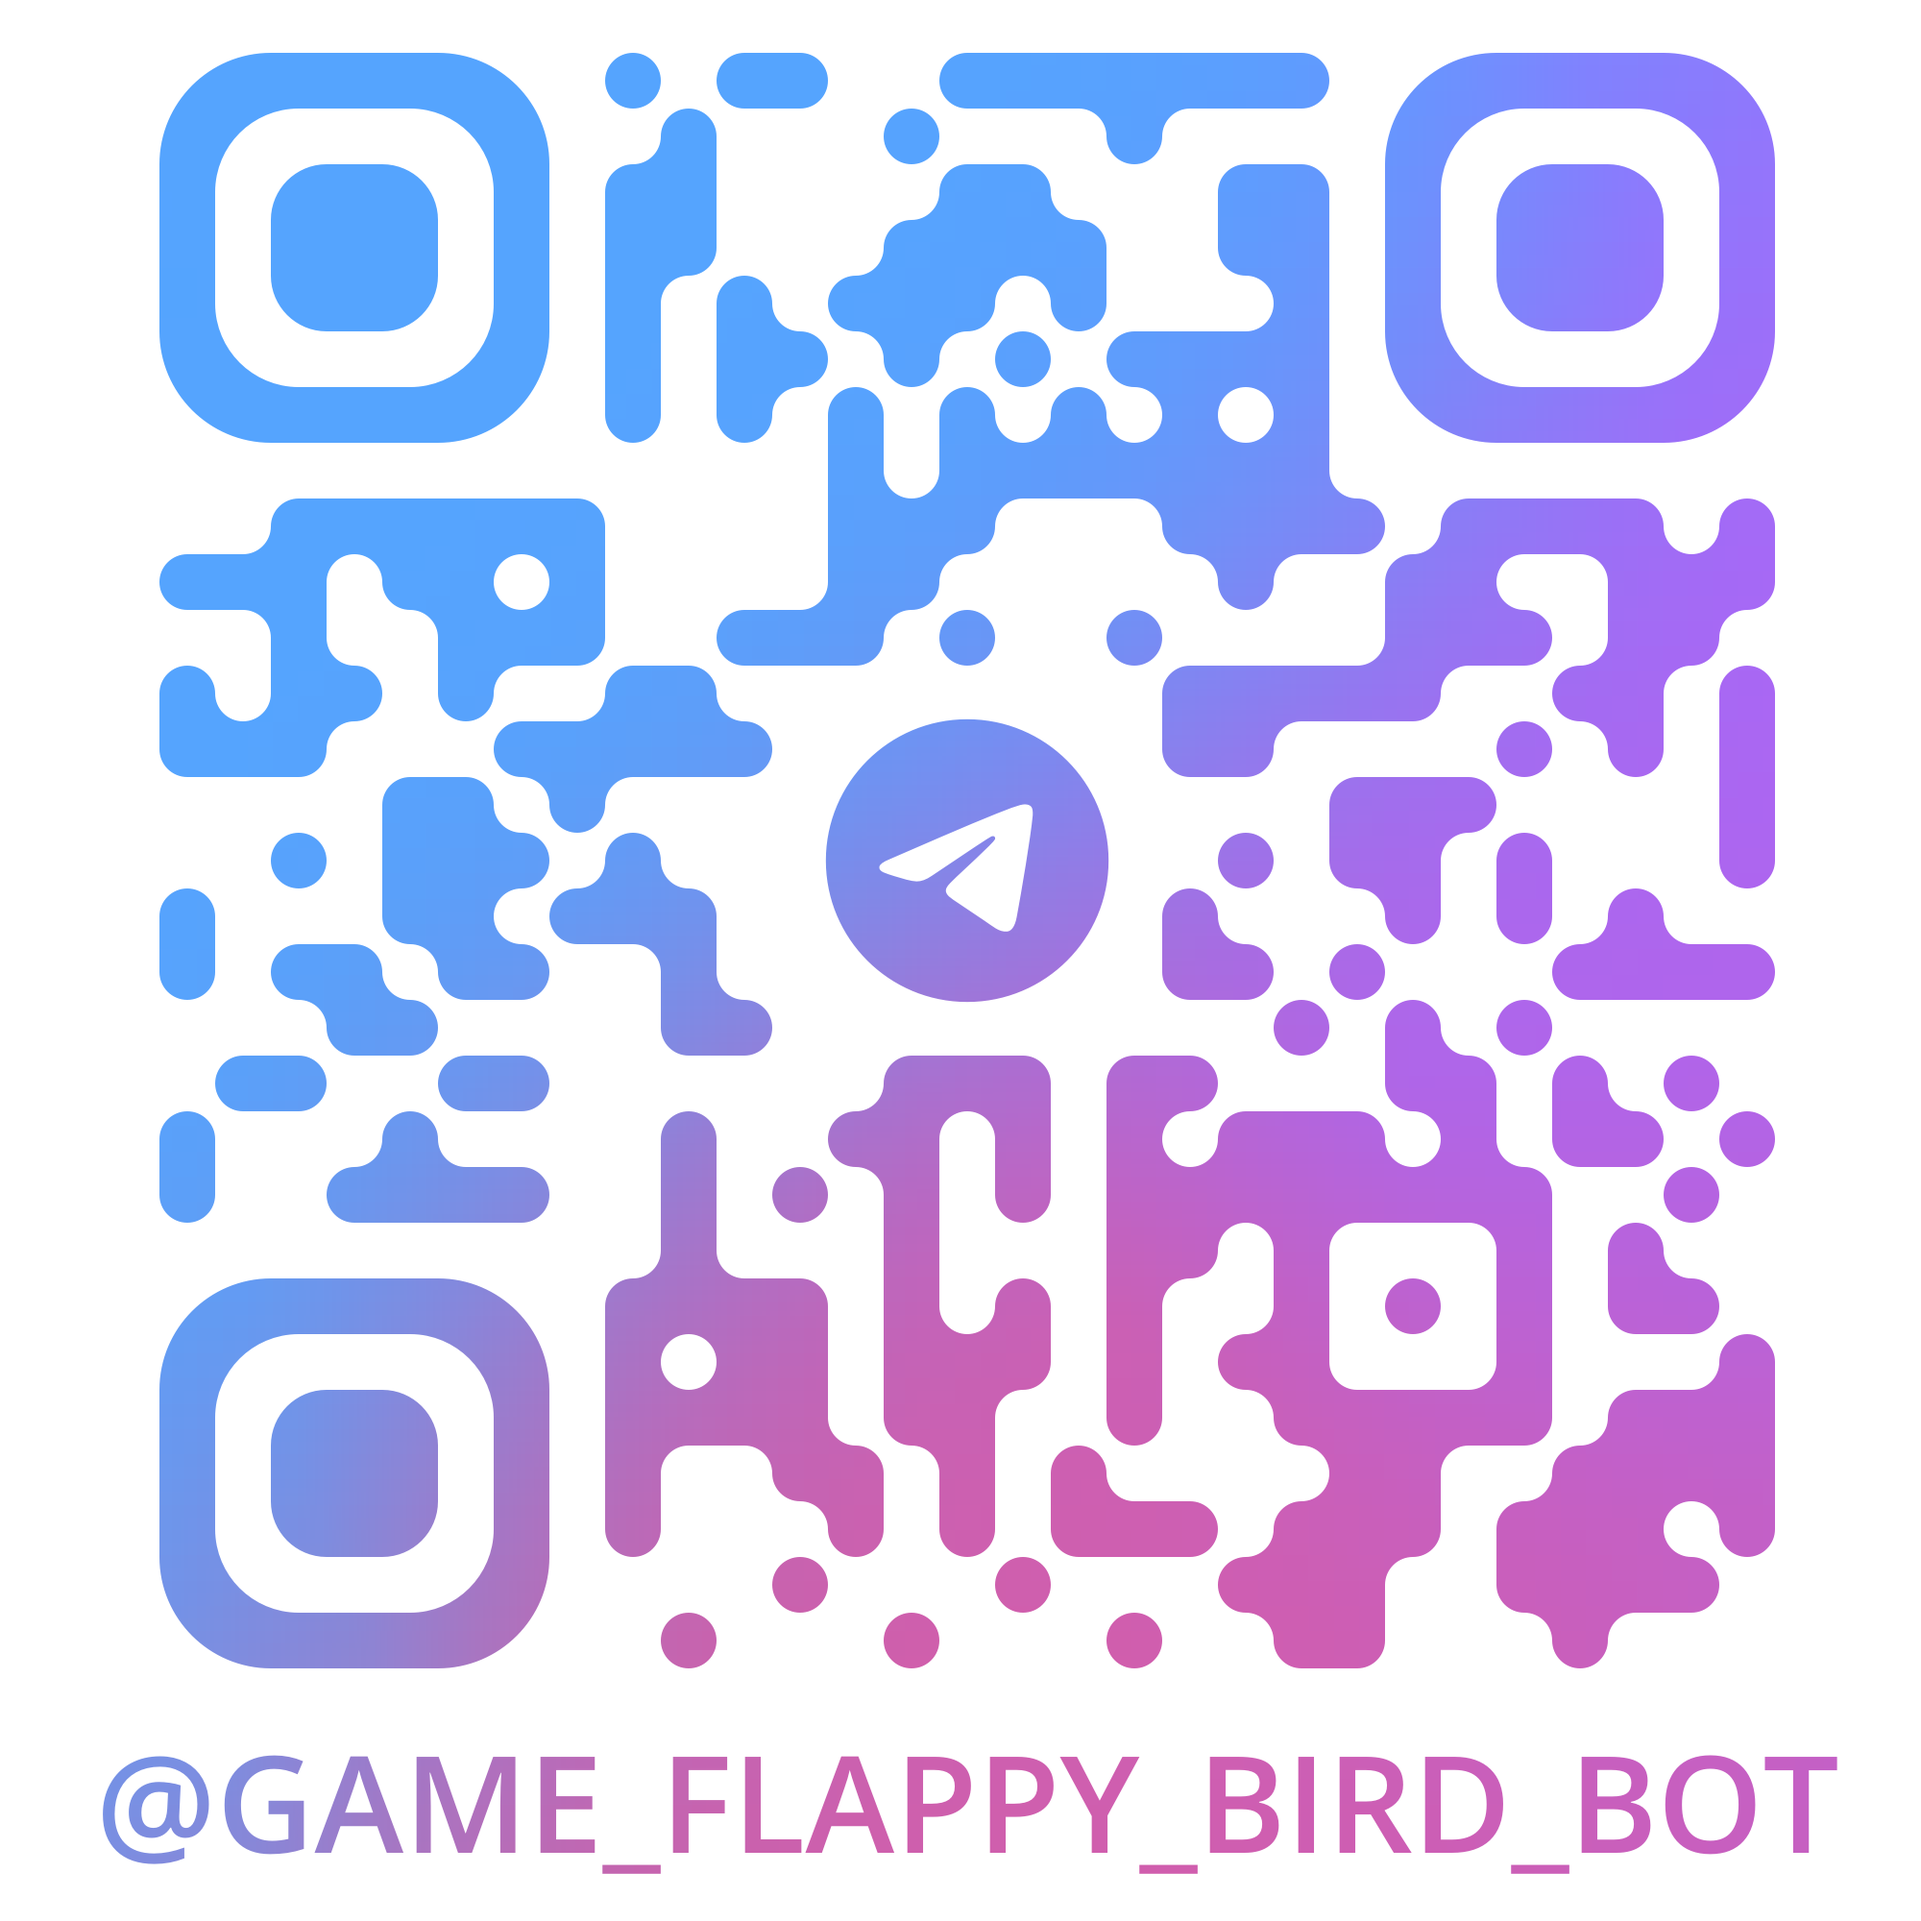
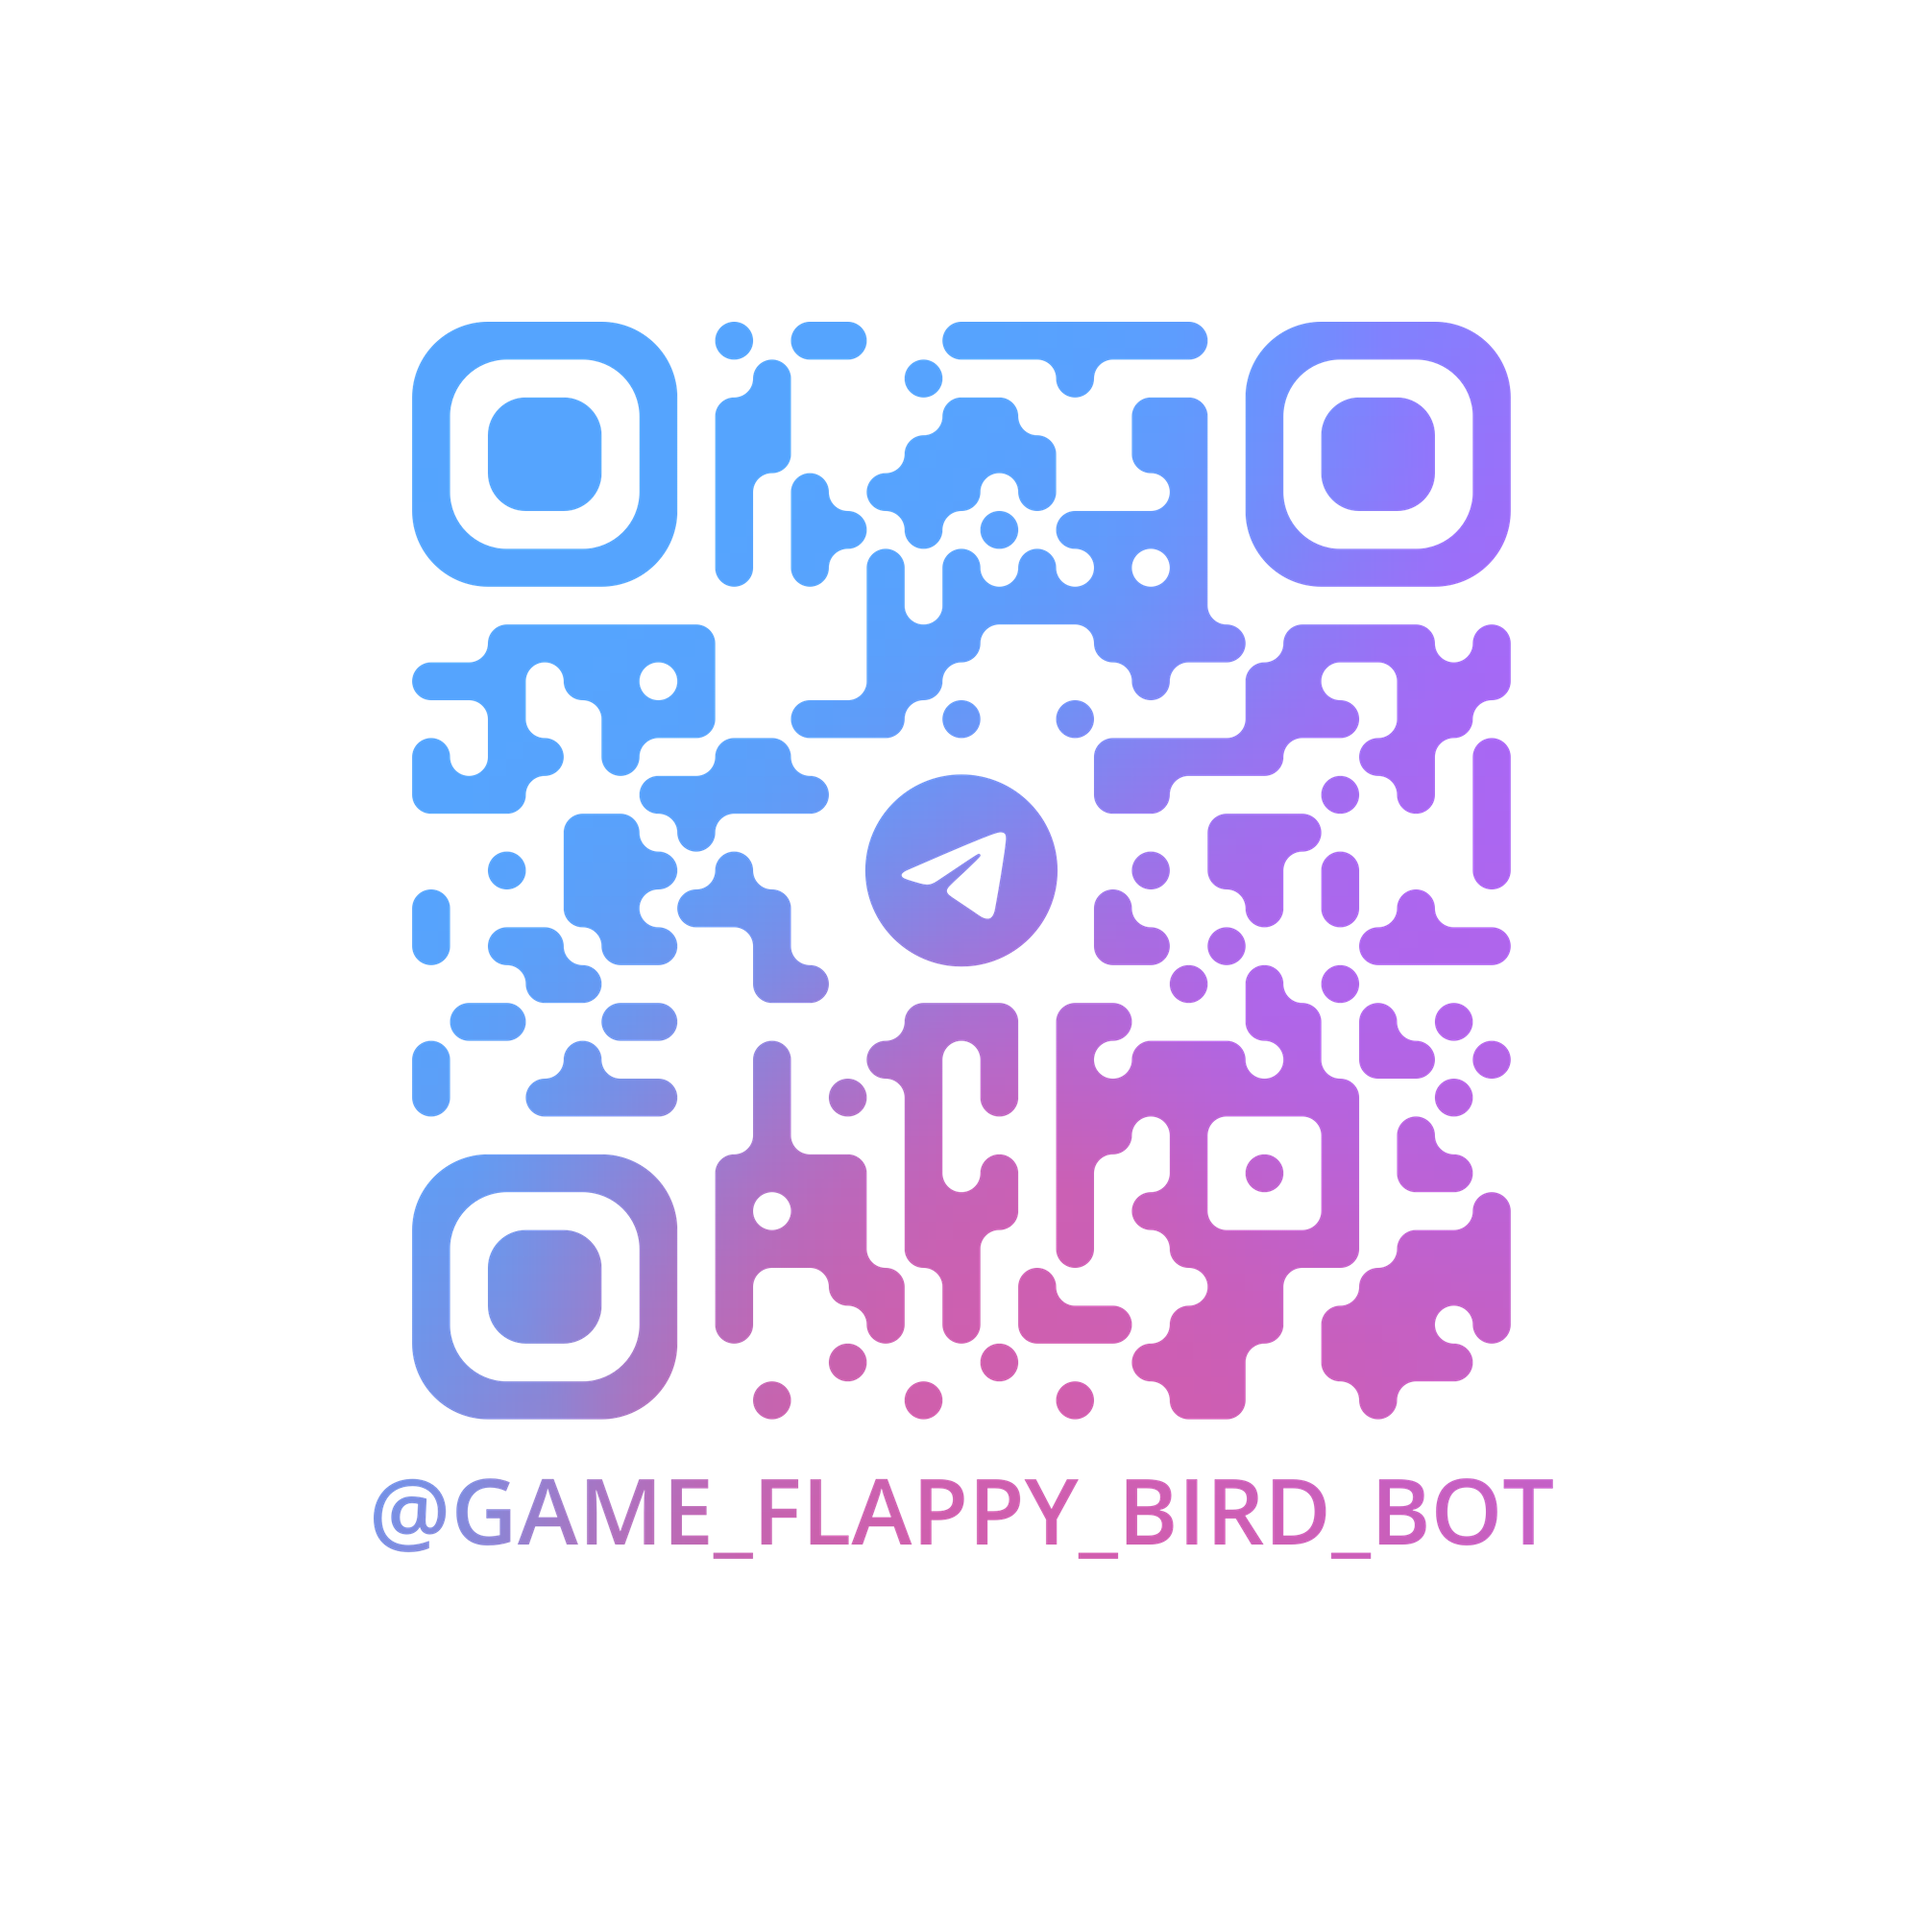
Add files via upload

diff --git a/index.html b/index.html
@@ -12,8 +12,8 @@
 </script>
 <style>
         .image-box {
-            width: 100%;
-            height: 100%;
+            width: 90%;
+            height: 90%;
             overflow: hidden;
             position: relative;
         }
